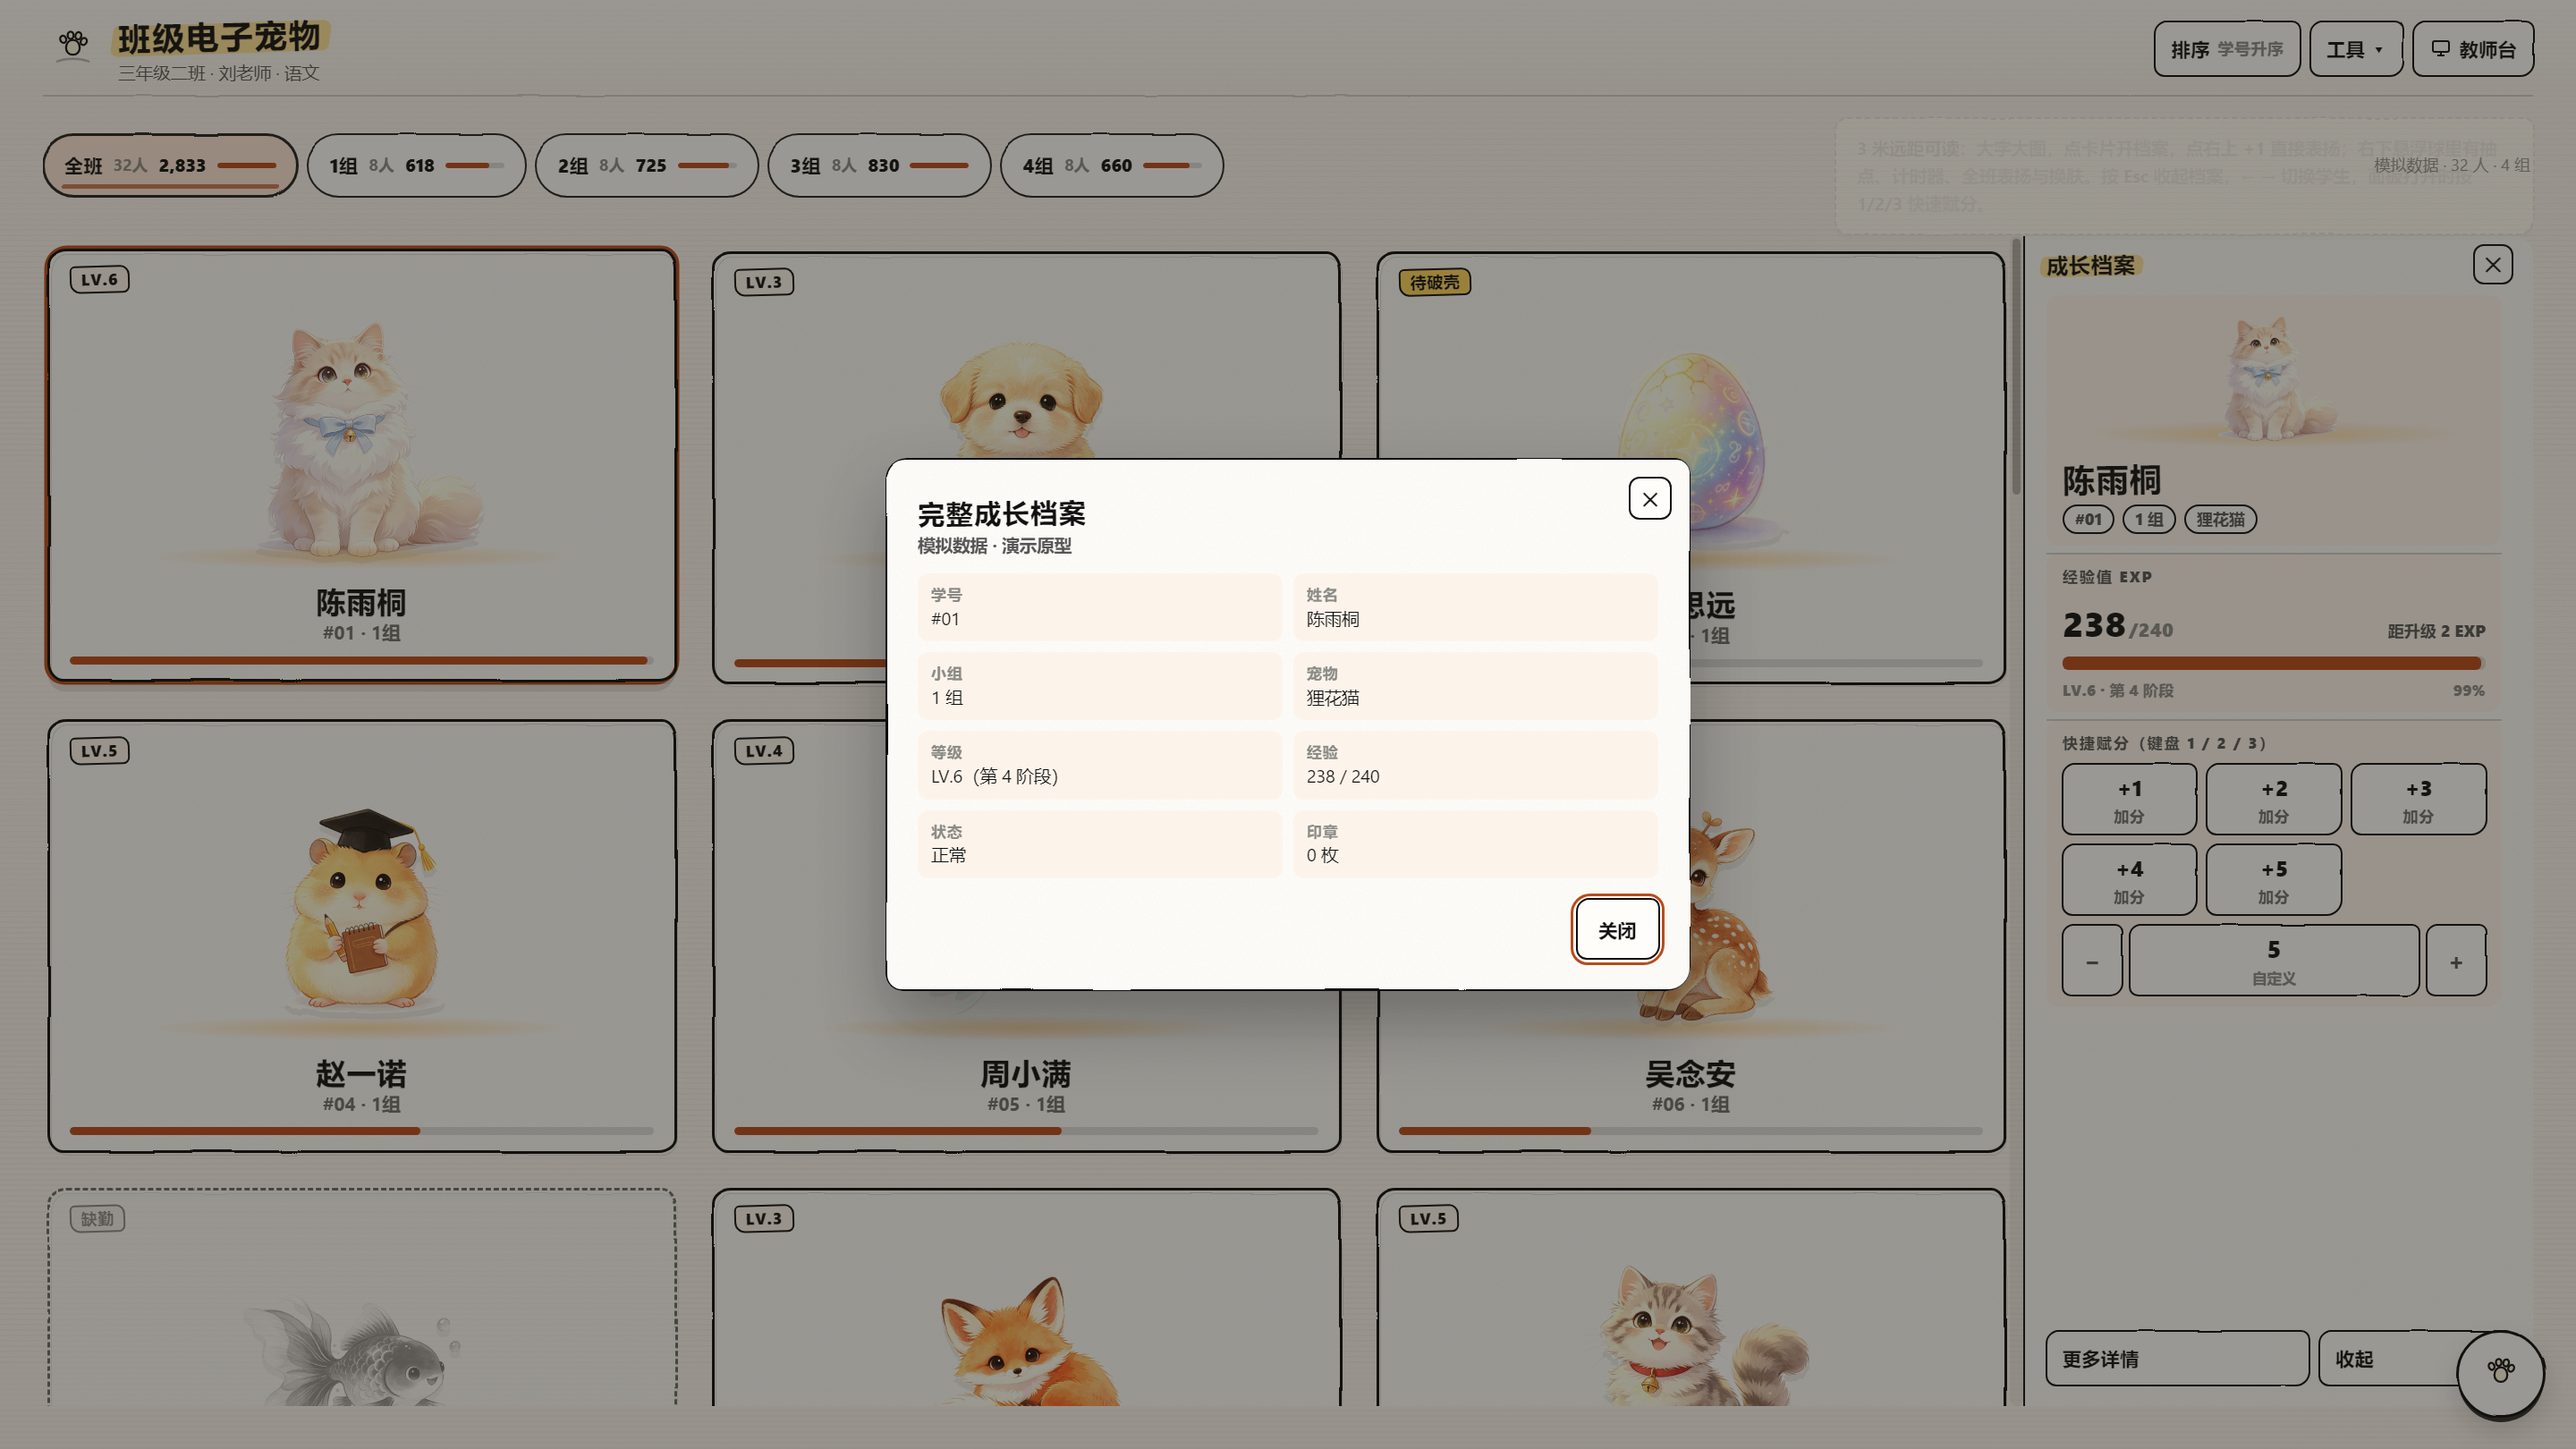
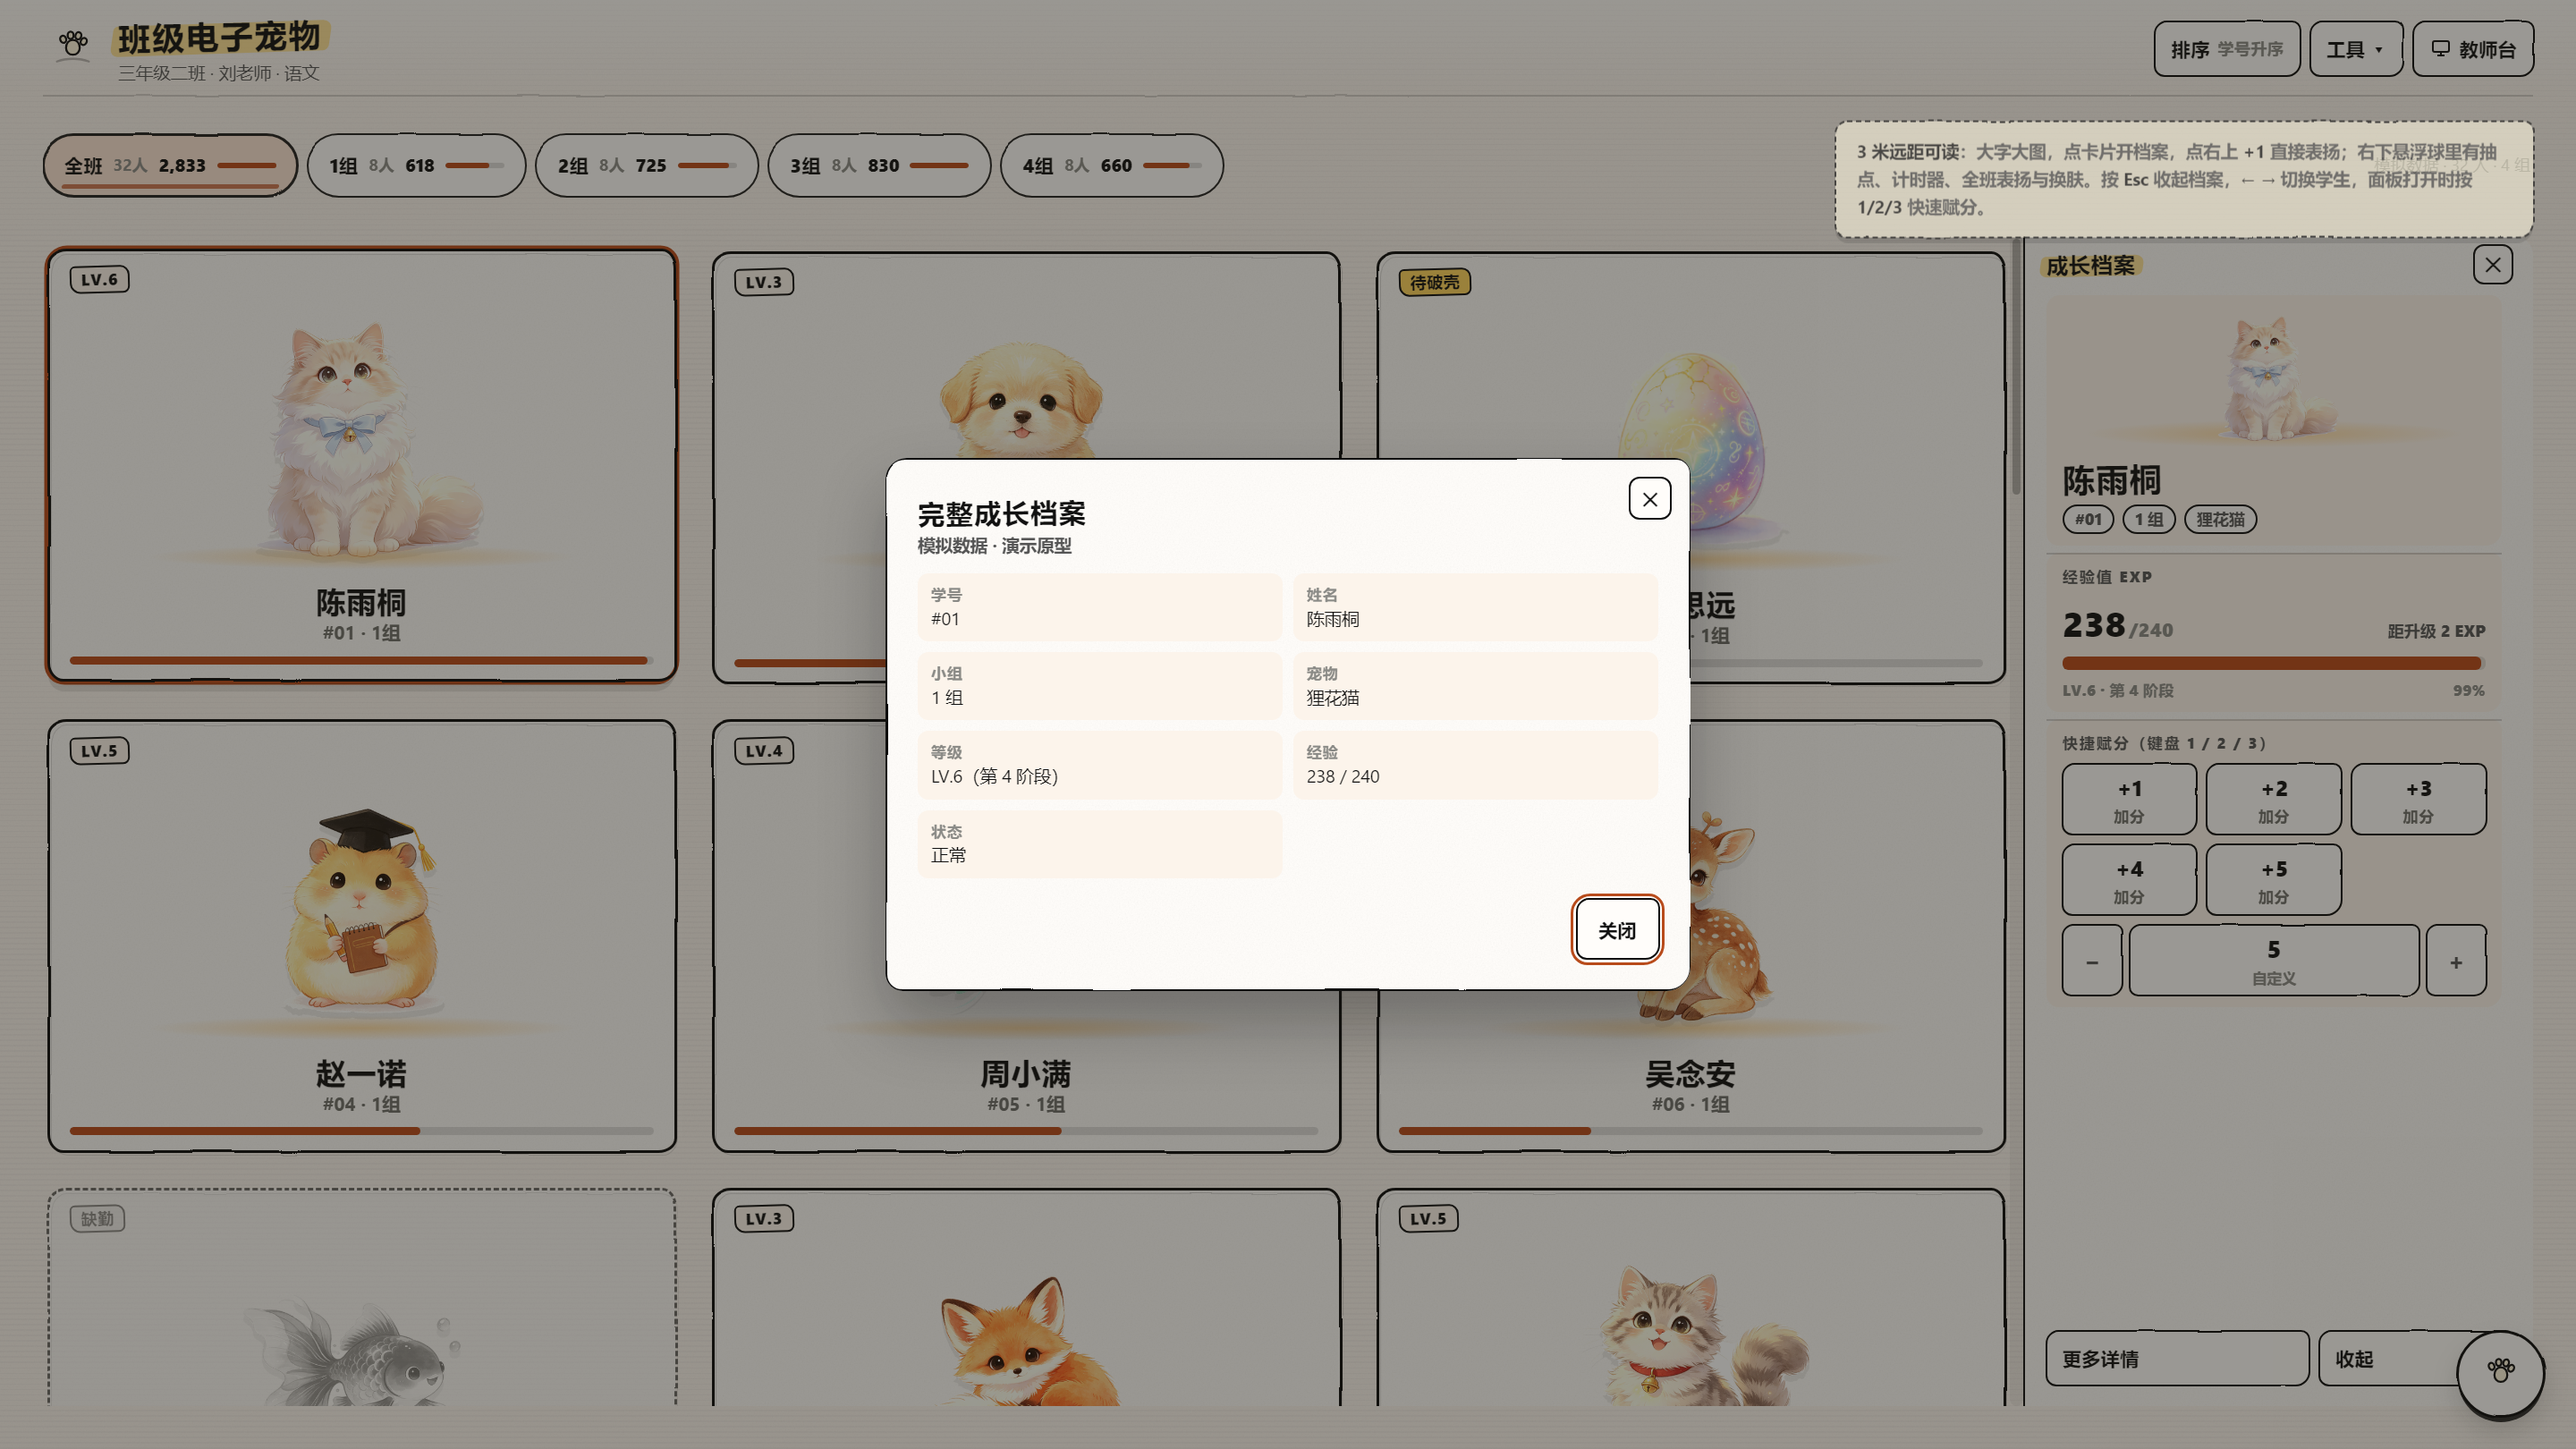
chore(v3): drop the 印章 0 枚 cell from 更多详情 and the 教师专用 seal from the portal card
- detail dialog now lists seven fields (学号/姓名/小组/宠物/等级/经验/状态)
- portal card no longer carries the decorative corner seal; .seal markup and CSS removed

Changed region(s): [[0.6875, 0.0617, 1.0, 0.1852]]

diff --git a/design/v3_portal.html b/design/v3_portal.html
@@ -206,20 +206,6 @@ h1,h2,p{margin:0}
 }
 .card > *{position:relative;z-index:1}
 .card > .tape{left:34px;top:-12px;transform:rotate(-3.6deg);width:82px}
-/* 右上角墨线贴纸角标 */
-.seal{
-  position:absolute;right:-13px;top:-15px;z-index:3;
-  width:62px;height:62px;display:grid;place-items:center;text-align:center;
-  background:var(--sun);border:var(--line) solid var(--ink);border-radius:50%;
-  box-shadow:0 3px 0 var(--ink);transform:rotate(9deg);
-  font-size:11px;font-weight:900;line-height:1.12;letter-spacing:.08em;color:var(--ink);
-}
-.seal::before{
-  content:'';position:absolute;inset:5px;border:1.4px dashed rgba(17,17,17,.55);
-  border-radius:50%;filter:url(#inkWobSm);
-}
-.seal span{position:relative;z-index:1}
-
 /* ---------- 卡片抬头：马克笔斜块高亮 ---------- */
 .card-head{flex:none;display:flex;flex-direction:column;gap:1px;margin-bottom:clamp(8px,1.4vh,14px)}
 .card-title{
@@ -475,7 +461,6 @@ input:focus-visible{outline:3px solid var(--accent);outline-offset:2px;backgroun
     <div class="cardwrap">
       <div class="card" id="authCard">
         <span class="tape" aria-hidden="true"></span>
-        <span class="seal" aria-hidden="true"><span>教师<br>专用</span></span>
 
         <div class="card-head" id="cardHead">
           <h2 class="card-title"><span class="marker" id="cardTitle">教师登录</span></h2>

diff --git a/design/v3_looseleaf_paper.html b/design/v3_looseleaf_paper.html
@@ -1770,8 +1770,7 @@ function openDetail(){
   var cells = [
     ['学号', '#' + pad2(s.id)], ['姓名', s.name], ['小组', s.group + ' 组'],
     ['宠物', SPECIES[s.species].name], ['等级', 'LV.' + s.level + '（第 ' + stageOf(s.level) + ' 阶段）'],
-    ['经验', s.exp + ' / ' + s.maxExp], ['状态', s.isAbsent ? '请假缺勤' : (s.isEgg ? '蛋 · 待破壳' : (s.level >= MAX_LEVEL ? '满级' : '正常'))],
-    ['印章', s.stamps.length + ' 枚']
+    ['经验', s.exp + ' / ' + s.maxExp], ['状态', s.isAbsent ? '请假缺勤' : (s.isEgg ? '蛋 · 待破壳' : (s.level >= MAX_LEVEL ? '满级' : '正常'))]
   ];
   var html = '<div class="detail-grid">';
   cells.forEach(function(c){ html += '<div class="detail-cell"><b>' + c[0] + '</b>' + c[1] + '</div>'; });
